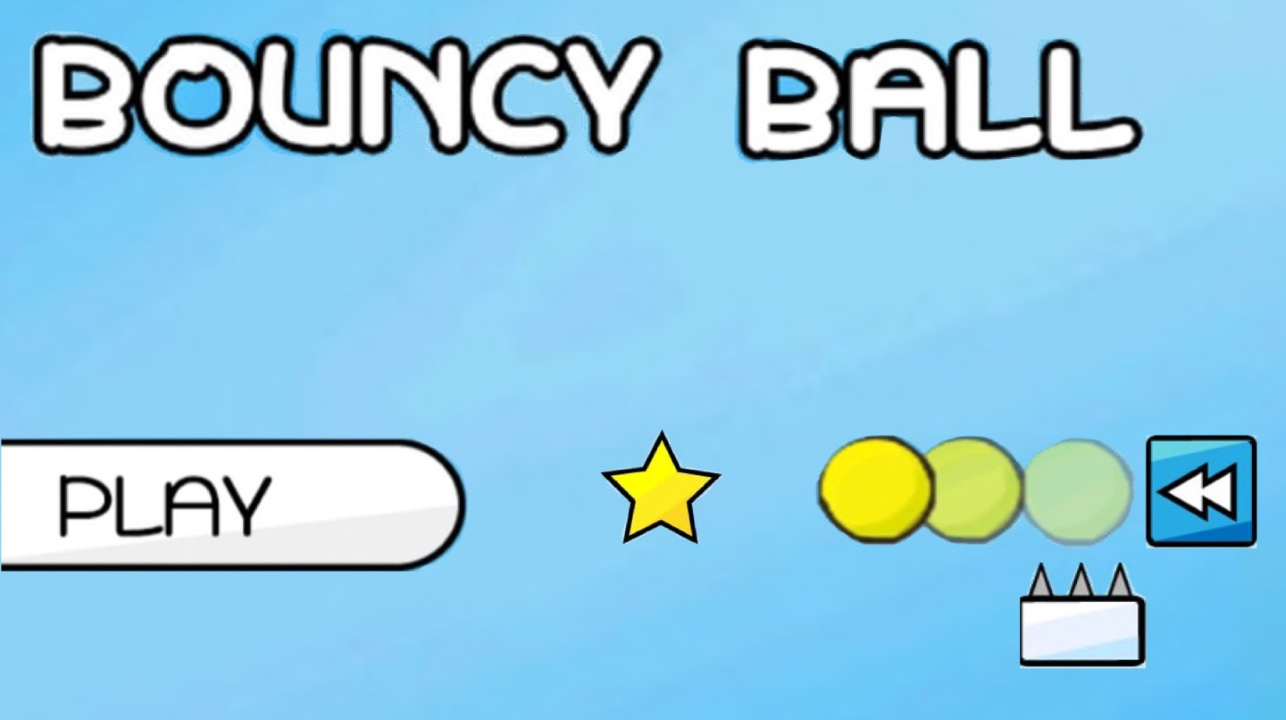
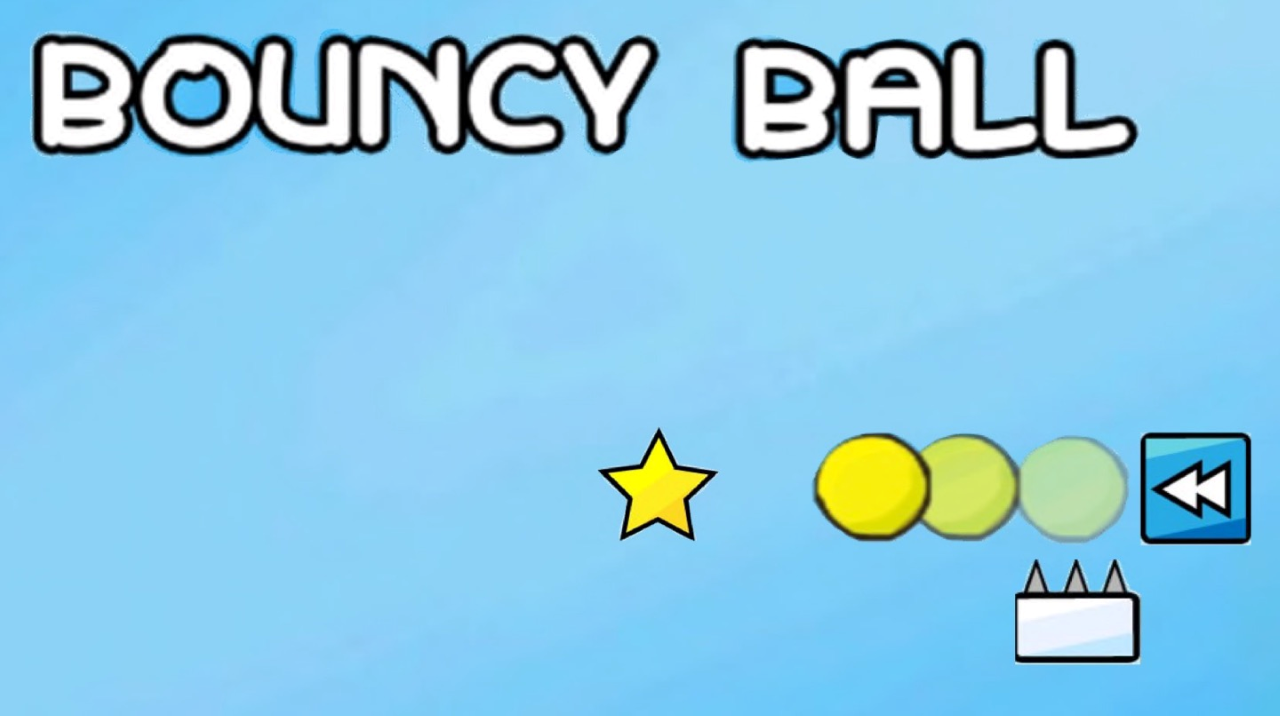
초기화면
ㅇ

Changed region(s): [[0.0, 0.5838, 0.375, 0.7989]]

diff --git a/src/ingame-scene/mainscene.js b/src/ingame-scene/mainscene.js
@@ -20,15 +20,25 @@ export default class mainscene extends GameObject  {
   this.playbutton = new Sprite(({
     imagePath: "/src/ingame-block/playbutton.png",
     transform: {
-      position: new Vector(233,504)
+      position: new Vector(233,400)
     },
   }))
   this.addChild(this.playbutton);
+
+  this.description = new Sprite(({
+    imagePath: "/src/ingame-block/discription.png",
+    transform: {
+      position: new Vector(233, 600)}
+  }))
+  this.addChild(this.description)
 }
   update(deltaTime) {
     super.update(deltaTime);
     if(this.playbutton.isLeftMouseClickThis()){
       SceneManager.loadScene(Stage1);
+    }
+    if(this.description.isLeftMouseClickThis()){
+      SceneManager.loadScene();
     }
   }
 }

diff --git a/src/main.js b/src/main.js
@@ -24,7 +24,7 @@ window.onload = () => {
     height: 720,
     fps: 60,
     title: "gameEngineTitle",
-    scene: Stage2
+    scene: mainscene
   });
   // Engine.initWithForm({
   //   thumbnailImagePath: "/favicon.ico",
